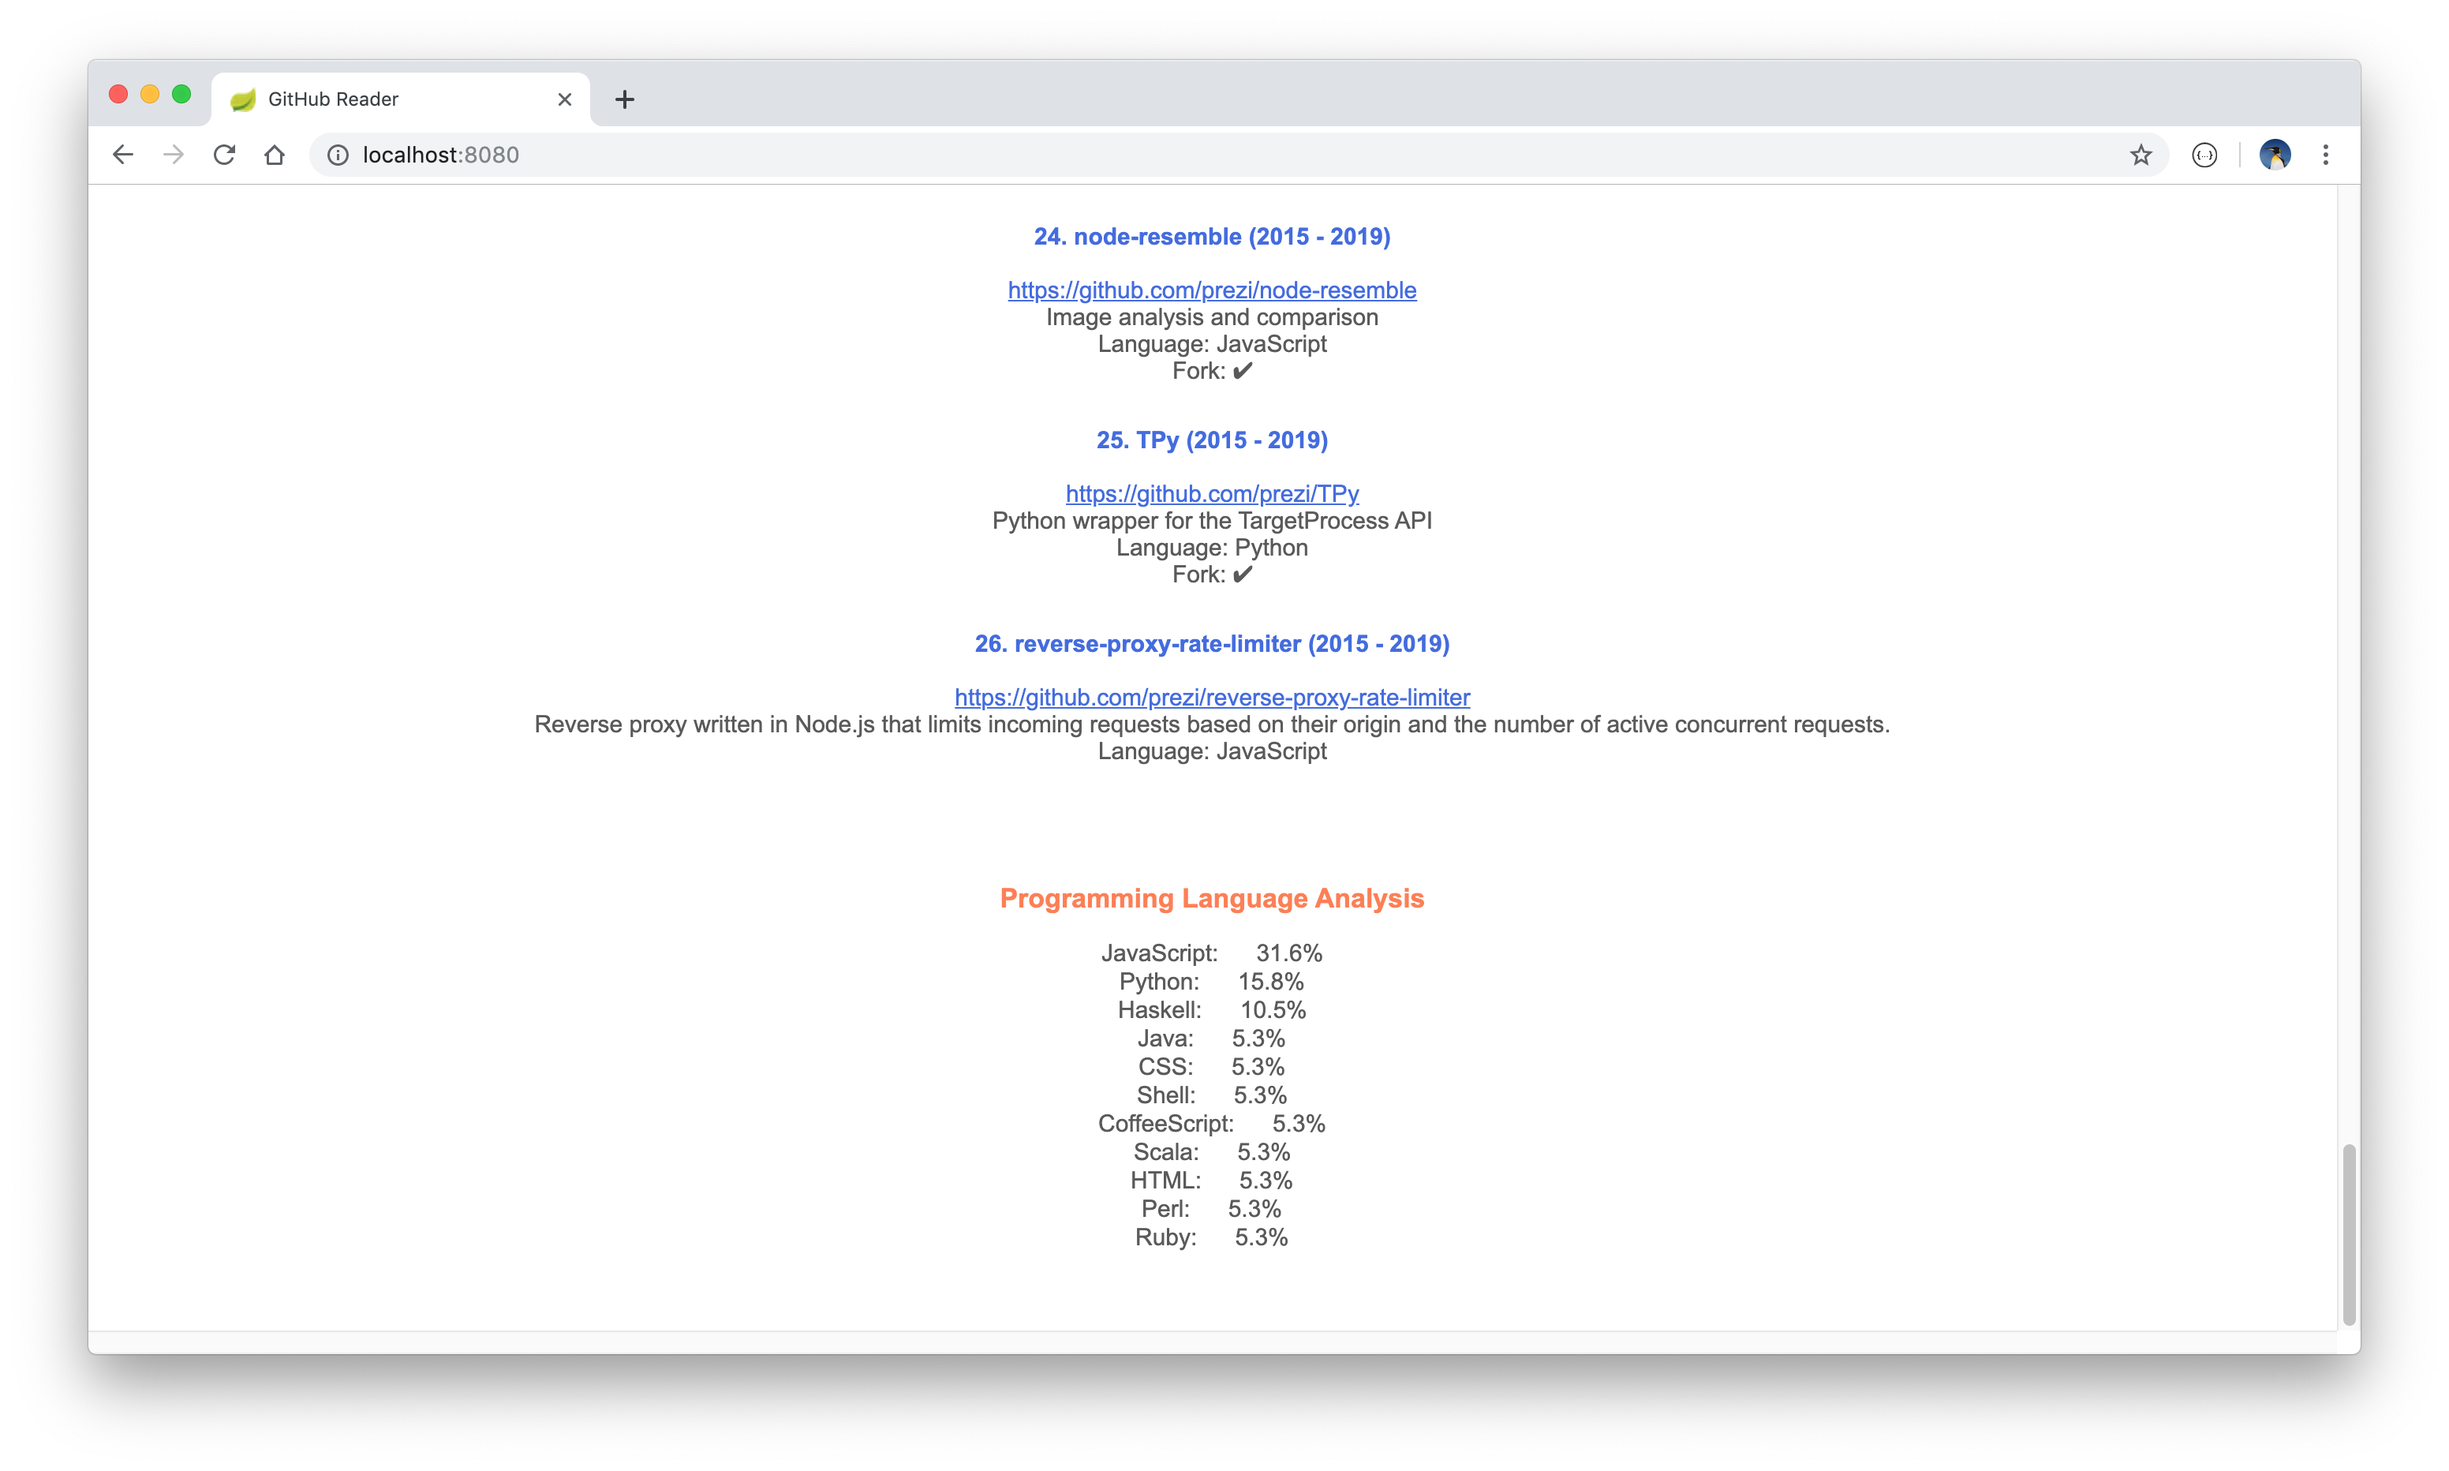
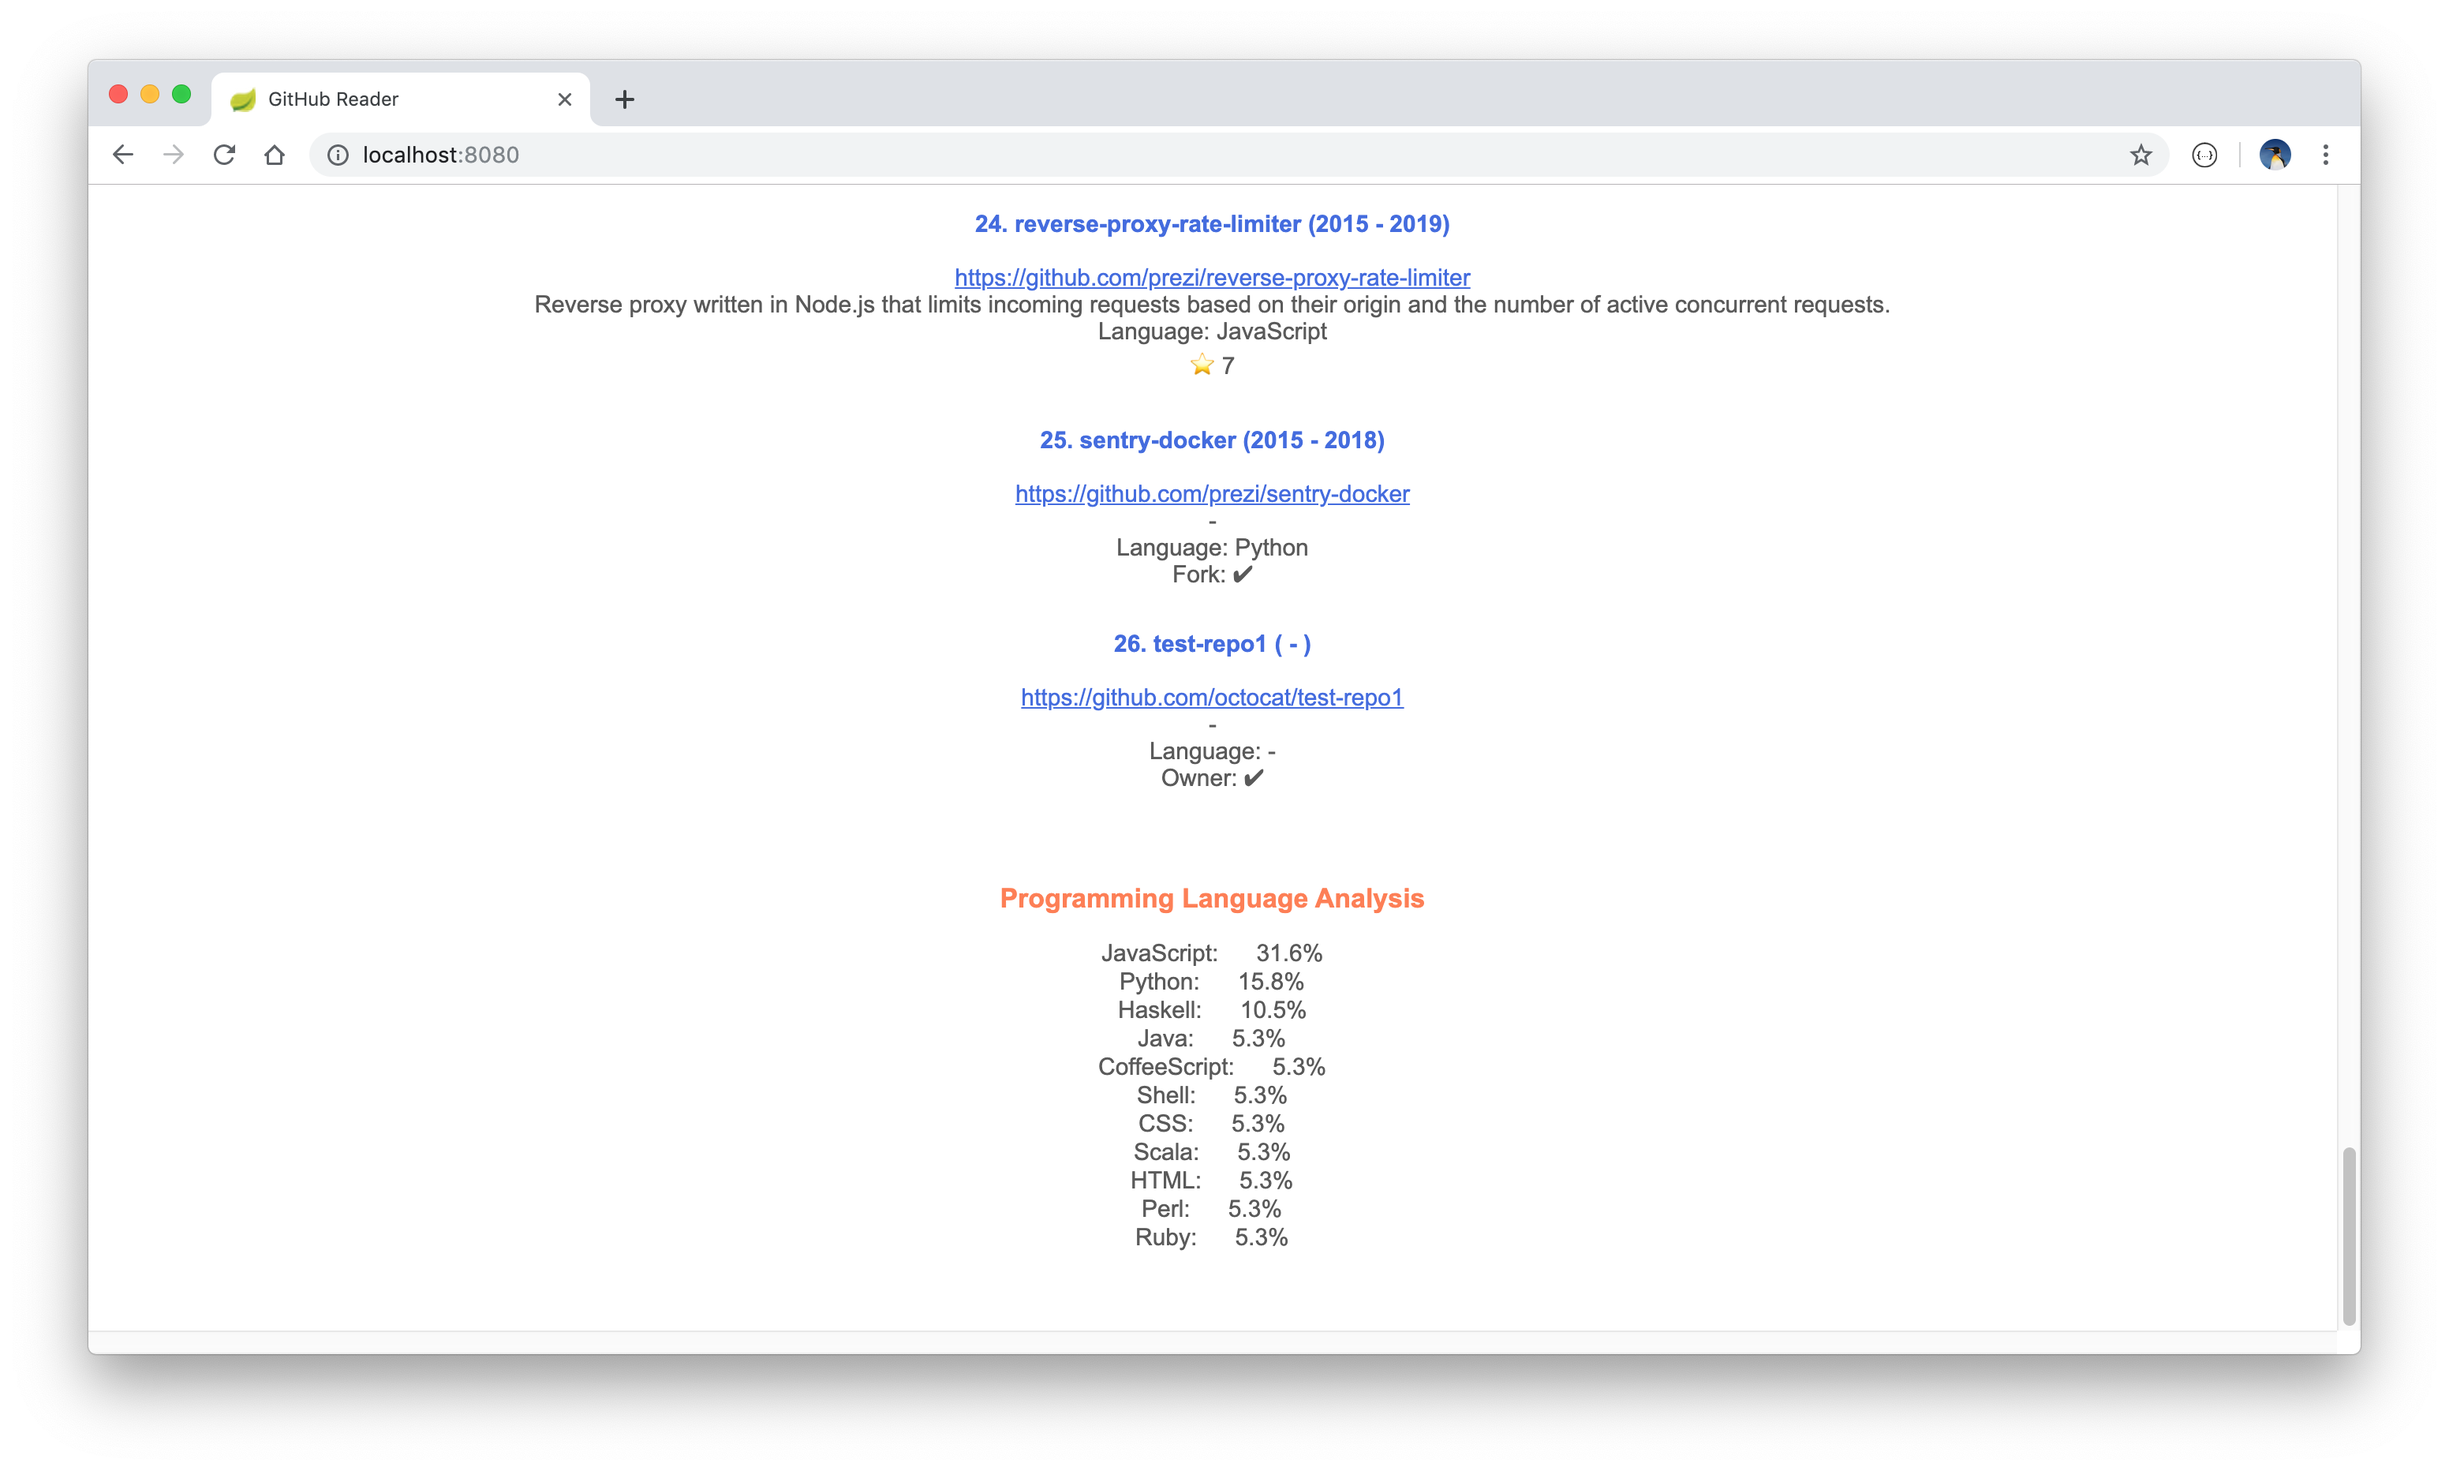
Add additional features and repo sorting

Changed region(s): [[0.2188, 0.1245, 0.7812, 0.3734], [0.2188, 0.4356, 0.7812, 0.529], [0.4375, 0.7157, 0.5312, 0.7779]]

diff --git a/GitHub Reader/src/main/resources/templates/displayInfo.html b/GitHub Reader/src/main/resources/templates/displayInfo.html
@@ -44,6 +44,7 @@
         </br>
         <span th:text="${repo.isFork() != '' && repo.isFork()} ? 'Fork: &#10004;' : ''"></span>
         <span th:text="${repo.isOwner() != '' && repo.isOwner()} ? 'Owner: &#10004;' : ''"></span>
+        <span th:text="${repo.getStargazersCount() != 0} ? '&#11088;' + ${repo.getStargazersCount()}: ''"></span>
         </br></br>
     </p>
 </div>

diff --git a/GitHub Reader/src/main/java/com/cadebe/github_reader/service/ReaderService.java b/GitHub Reader/src/main/java/com/cadebe/github_reader/service/ReaderService.java
@@ -65,6 +65,7 @@ public class ReaderService {
             JsonElement createdElement = element.getAsJsonObject().get("created_at");
             JsonElement updatedElement = element.getAsJsonObject().get("updated_at");
             JsonElement ownerElement = element.getAsJsonObject().get("owner");
+            JsonElement starElement = element.getAsJsonObject().get("stargazers_count");
 
             String repoName = nameElement instanceof JsonNull ? "" : nameElement.getAsString();
             String htmlUrl = htmlUrlElement instanceof JsonNull ? "" : htmlUrlElement.getAsString();
@@ -72,6 +73,7 @@ public class ReaderService {
             String language = languageElement instanceof JsonNull ? "" : languageElement.getAsString();
             String createdYear = languageElement instanceof JsonNull ? "" : createdElement.getAsString();
             String updatedYear = languageElement instanceof JsonNull ? "" : updatedElement.getAsString();
+            int stargazersCount = languageElement instanceof JsonNull ? 0 : starElement.getAsInt();
             boolean isForked = !(forkElement instanceof JsonNull) && forkElement.getAsBoolean();
             boolean isOwner = !(ownerElement instanceof JsonNull) &&
                     ownerElement.getAsJsonObject().get("login").getAsString().equals(userName);
@@ -85,11 +87,15 @@ public class ReaderService {
                     .updatedYear(updatedYear.length() > 4 ? updatedYear.substring(0, 4) : "")
                     .isFork(isForked)
                     .isOwner(isOwner)
+                    .stargazersCount(stargazersCount)
                     .build();
 
             repositories.add(repo);
         }
-        return repositories;
+
+        return repositories
+                .stream()
+                .sorted(Comparator.comparing(GitHubRepository::getRepoName)).collect(Collectors.toList());
     }
 
     public User getUser(String userNameInput) {

diff --git a/GitHub Reader/src/main/java/com/cadebe/github_reader/model/GitHubRepository.java b/GitHub Reader/src/main/java/com/cadebe/github_reader/model/GitHubRepository.java
@@ -16,6 +16,7 @@ public class GitHubRepository {
     String language;
     String createdYear;
     String updatedYear;
+    int stargazersCount;
     boolean isFork;
     boolean isOwner;
 }
